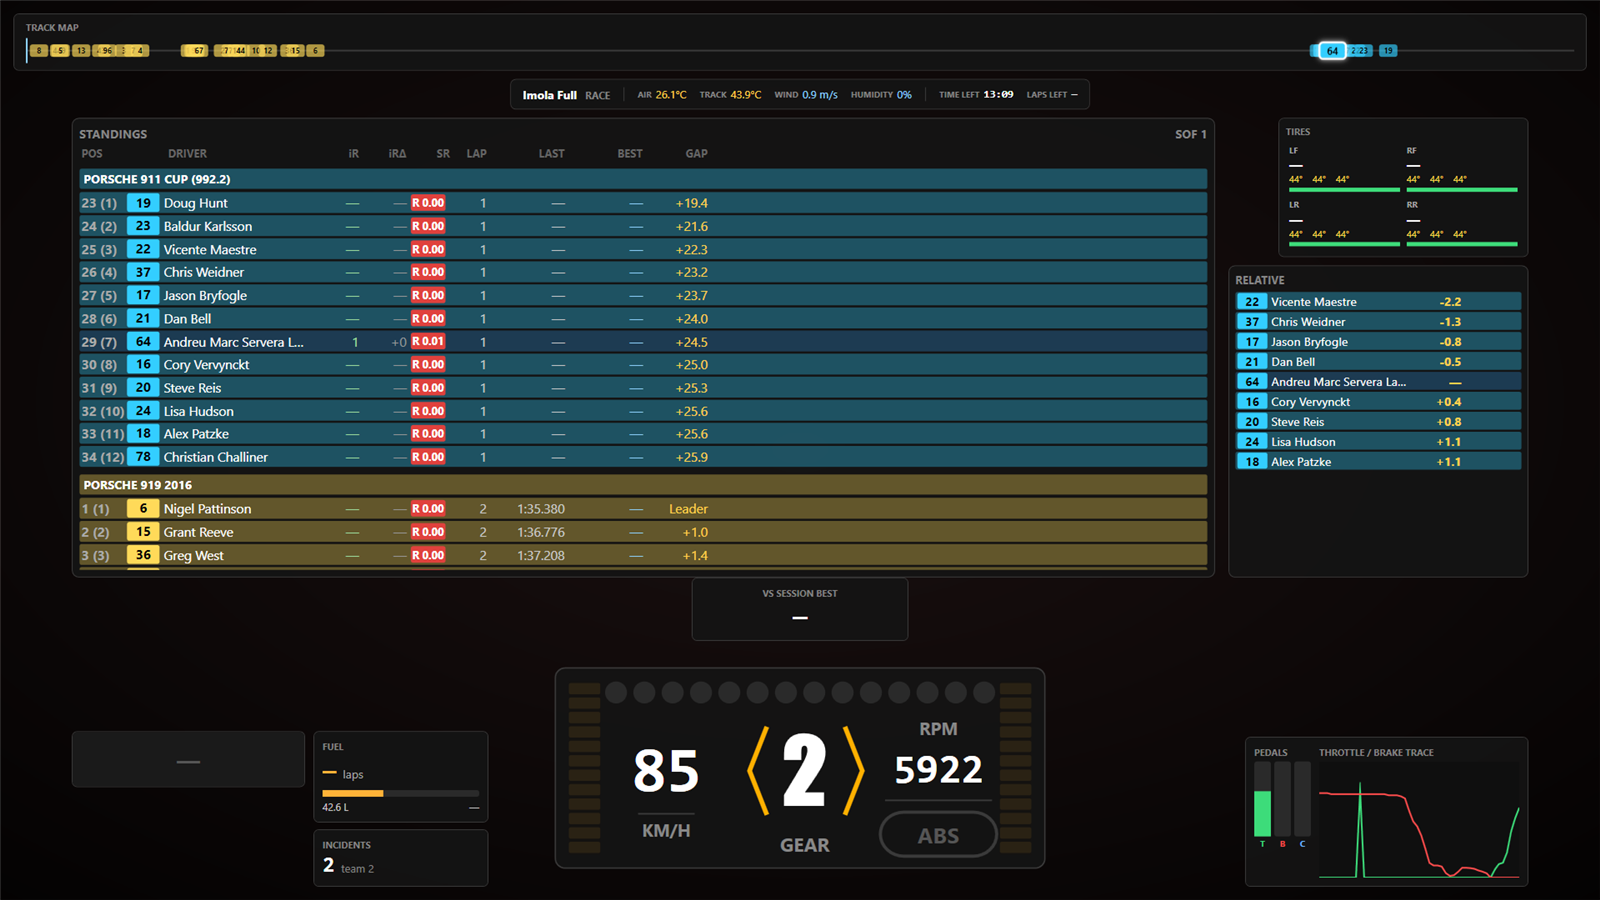
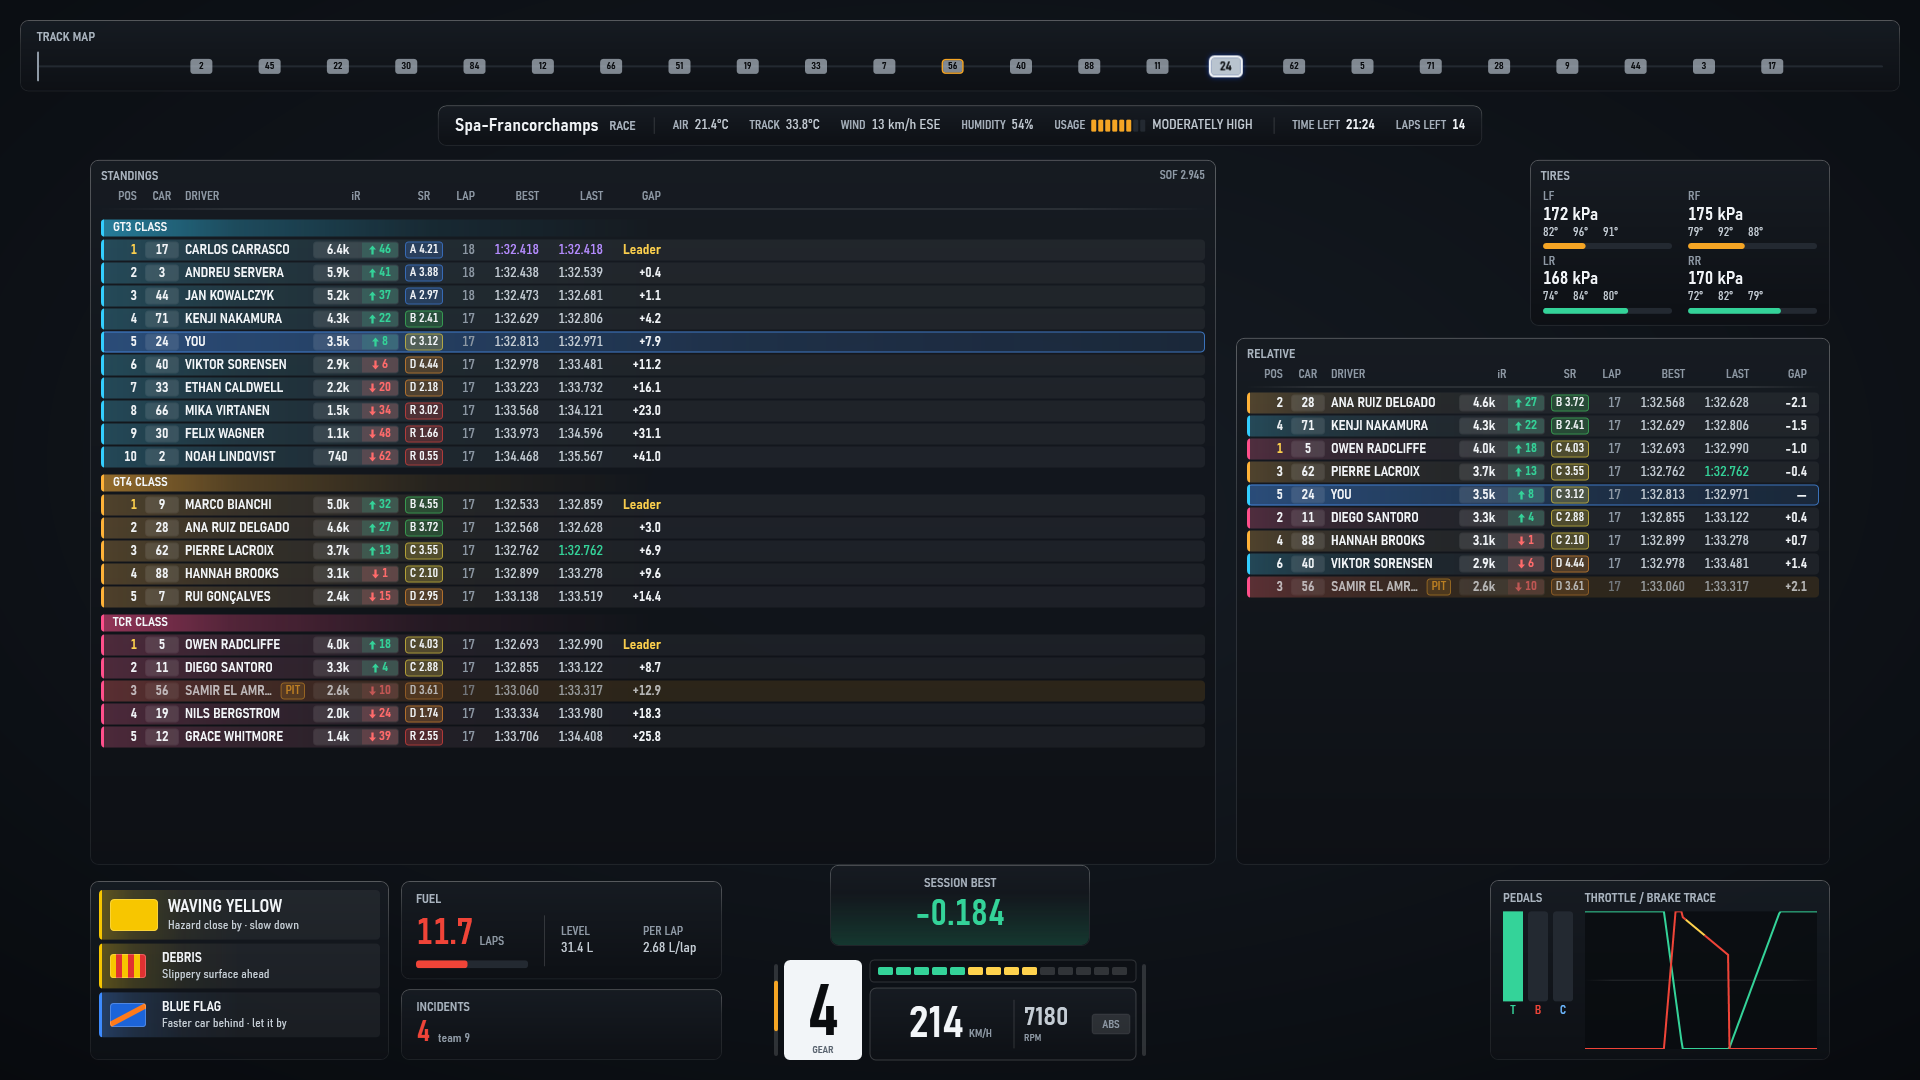
feat: Update README with new screenshots and features, remove outdated images

diff --git a/README.md b/README.md
@@ -23,38 +23,58 @@ and rendered directly by the app.
 
 ## Screenshots
 
-**Fullscreen dashboard**, on a second monitor — track map, standings, relative, tires, fuel,
-incidents, and the cockpit cluster all on one screen, captured live mid-race:
+**Floating widgets** — each one is its own movable, click-through window on top of the sim:
+
+![Floating widgets](docs/screenshots/floating-widgets.png)
+
+**Fullscreen dashboard**, for a second monitor — track map, standings, relative, tires, fuel,
+incidents, flags, pedals and the cockpit all on one screen:
 
 ![Fullscreen dashboard](docs/screenshots/dashboard.png)
 
-**Floating widgets**, overlaid directly on top of the sim while driving:
+**Standings and Relative** — class-coloured rows, iRating badge with the estimated gain/loss,
+safety rating, personal-best and session-best lap colours, the live PIT tag and the optional
+last-pit-stop column:
 
-![Floating widgets over iRacing](docs/screenshots/floating-widgets.jpg)
+![Standings and Relative](docs/screenshots/timing-tables.png)
 
-The cockpit cluster up close — speed, gear, RPM, shift lights, ABS indicator, and the
-throttle/brake trace:
+**Cockpit themes** — seven completely different dashboards, switchable from the Control Panel:
 
-![Cockpit cluster close-up](docs/screenshots/cockpit-cluster.png)
+![Cockpit themes](docs/screenshots/cockpit-themes.png)
+
+**Weather** — stacked or compact, with a wind compass that turns with your car:
+
+![Weather widget](docs/screenshots/weather.png)
+
+<sub>Screenshots are rendered by the app itself from its built-in preview data.</sub>
 
 ## Features
 
-- **Cockpit cluster** — speed, gear, RPM, shift lights, ABS indicator, and left/right proximity
-  bars for nearby cars.
+- **Cockpit** — speed, gear, RPM, 14 shift lights, ABS and cars alongside, in seven themes:
+  Default, GT Sports, Casual, Hypercar, Pit Wall, Classic Car and Invisible.
 - **Relative** — cars ahead/behind you on track, gap in seconds, class-colored.
-- **Standings** — full running order with position, iRating, iRating delta, safety rating, lap,
-  last/best lap time, and gap to leader; automatically grouped by class in multiclass sessions.
+- **Standings** — full running order with position, iRating and estimated iRating change, safety
+  rating, lap, last/best lap time, and gap to the class leader; automatically grouped by class in
+  multiclass sessions.
+- **Last pit stop** — optional Standings/Relative column showing the lap of each driver's most
+  recent stop and its pit-lane time (e.g. `L24 | 01:18`).
 - **Delta bar** — live time delta vs. session best, personal best, or optimal lap.
-- **Fuel calculator** — average consumption per lap (computed from your own fuel burn across
-  completed laps, not a jumpy instantaneous rate), laps of fuel remaining, and whether you'll make
-  it to the end of the session.
-- **Flags** — current session flags (green, yellow, checkered, etc.).
+- **Fuel & fuel calculator** — average consumption per lap (computed from your own fuel burn across
+  completed laps, not a jumpy instantaneous rate), laps of fuel remaining, whether you'll make it to
+  the end of the session, and how much to add at the next stop.
+- **Flags** — every iRacing flag (track status, flags aimed at you, race progress and advisories),
+  each one individually switchable.
+- **Weather** — air and track temperature, humidity, wind speed, a wind compass relative to your
+  car, the current sky and the chance of rain; every element can be hidden and the widget closes up
+  around it.
 - **Tire info** — tire temps and pressures.
 - **Pedal trace** — a scrolling throttle/brake/clutch trace.
 - **Incidents** — your own and your team's incident count.
 - **Track info / Track map** — session/weather info bar and a schematic track map with live car
   markers.
 - **Three dashboard themes** — Classic, Digital HUD, and Raw DIY.
+- **Control Panel** — every widget has its own page with a live preview: visible columns and
+  elements, themes, units and sizes, plus opacity and auto-hide when you're not driving.
 - Every widget and dashboard panel is independently movable and scalable through five preset sizes
   (XS · S · M · L · XL).
 
